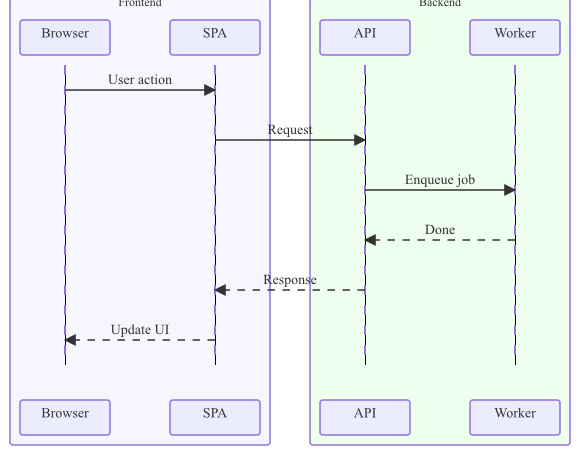
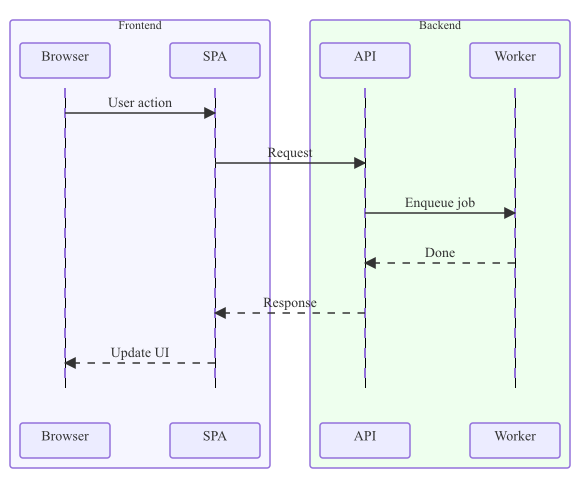
sequence: reserve top room for box-group title (#130)
* sequence: reserve top room for box-group title strip

renderBoxes drew the box rect at boxY = topY - titleStripH - boxPad/2,
which produced y < 0 and clipped the box title against the viewBox
top edge. computeLayout now adds titleStripH + boxPad/2 to topY when
the diagram has any box groups, so titles render fully.

* refactor(sequence): hoist boxGroupPad + boxTitleStripH, add regression test

Per review: the boxPad=10 constant and titleStripH formula were
duplicated three places (computeLayout title-room block, the pre-
existing computeLayout title-W rebalance loop, and renderBoxes).
Hoist to package-level boxGroupPad const and a boxTitleStripH(fontSize)
helper so a future tweak in renderBoxes can't silently re-introduce
the title-clipping bug.

Add TestRenderBoxGroupTitleNotClippedAtTop asserting the box rect
y >= 0 when a box group is present.

---------

diff --git a/pkg/renderer/sequence/renderer.go b/pkg/renderer/sequence/renderer.go
@@ -114,6 +114,13 @@ func computeLayout(d *diagram.SequenceDiagram, fontSize, pad float64) seqLayout 
 	if d.Title != "" {
 		topY += titleHeight(fontSize)
 	}
+	// Reserve room for the title strip drawn above each `box` group
+	// (renderBoxes draws at boxY = topY - titleStripH - boxPad/2).
+	// Without this, boxes start at y < 0 and their title text clips
+	// against the viewBox top edge.
+	if len(d.Boxes) > 0 {
+		topY += boxTitleStripH(fontSize) + boxGroupPad/2
+	}
 	bodyStart := topY + maxHeaderH + 10
 	rows := countRows(d)
 	bodyEnd := bodyStart + float64(rows)*defaultRowHeight
@@ -172,12 +179,11 @@ func computeLayout(d *diagram.SequenceDiagram, fontSize, pad float64) seqLayout 
 				}
 			}
 		}
-		const boxPad = 10.0
-		left := xs[firstIdx] - widths[firstIdx]/2 - boxPad
-		right := xs[lastIdx] + widths[lastIdx]/2 + boxPad
+		left := xs[firstIdx] - widths[firstIdx]/2 - boxGroupPad
+		right := xs[lastIdx] + widths[lastIdx]/2 + boxGroupPad
 		boxW := right - left
 		titleFontSize := fontSize - 2
-		titleW := textmeasure.EstimateWidth(bx.Label, titleFontSize) + 2*boxPad
+		titleW := textmeasure.EstimateWidth(bx.Label, titleFontSize) + 2*boxGroupPad
 		if titleW > boxW {
 			extra := (titleW - boxW) / 2
 			if left-extra < 0 {
@@ -213,6 +219,12 @@ func actorHeight(fontSize float64) float64 {
 
 func titleHeight(fontSize float64) float64 {
 	return fontSize + 12
+}
+
+const boxGroupPad = 10.0
+
+func boxTitleStripH(fontSize float64) float64 {
+	return (fontSize - 2) + 6.0
 }
 
 const defaultBoxFillOpacity = 0.5
@@ -477,15 +489,14 @@ func renderBoxes(d *diagram.SequenceDiagram, lay seqLayout, th Theme, fontSize f
 			}
 		}
 
-		const boxPad = 10.0
-		boxX := lay.participantX[leftIdx] - lay.participantW[leftIdx]/2 - boxPad
-		right := lay.participantX[rightIdx] + lay.participantW[rightIdx]/2 + boxPad
+		boxX := lay.participantX[leftIdx] - lay.participantW[leftIdx]/2 - boxGroupPad
+		right := lay.participantX[rightIdx] + lay.participantW[rightIdx]/2 + boxGroupPad
 		boxW := right - boxX
 
 		titleFontSize := fontSize - 2
 		titleW := 0.0
 		if bx.Label != "" {
-			titleW = textmeasure.EstimateWidth(bx.Label, titleFontSize) + 2*boxPad
+			titleW = textmeasure.EstimateWidth(bx.Label, titleFontSize) + 2*boxGroupPad
 		}
 		if titleW > boxW {
 			extra := (titleW - boxW) / 2
@@ -493,9 +504,9 @@ func renderBoxes(d *diagram.SequenceDiagram, lay seqLayout, th Theme, fontSize f
 			boxW = titleW
 		}
 
-		titleStripH := titleFontSize + 6.0
-		boxY := lay.topY - titleStripH - boxPad/2
-		boxH := (lay.bottomY + lay.maxHeaderH + boxPad) - boxY
+		titleStripH := boxTitleStripH(fontSize)
+		boxY := lay.topY - titleStripH - boxGroupPad/2
+		boxH := (lay.bottomY + lay.maxHeaderH + boxGroupPad) - boxY
 
 		fill := th.ParticipantFill
 		if bx.Fill != "" {

diff --git a/pkg/renderer/sequence/renderer_test.go b/pkg/renderer/sequence/renderer_test.go
@@ -988,6 +988,37 @@ func TestRenderBlockEndsAboveBottomParticipantRow(t *testing.T) {
 	}
 }
 
+func TestRenderBoxGroupTitleNotClippedAtTop(t *testing.T) {
+	d := &diagram.SequenceDiagram{
+		Participants: []diagram.Participant{
+			{ID: "A", Kind: diagram.ParticipantKindParticipant, CreatedAtItem: -1, DestroyedAtItem: -1},
+			{ID: "B", Kind: diagram.ParticipantKindParticipant, CreatedAtItem: -1, DestroyedAtItem: -1},
+		},
+		Boxes: []diagram.Box{{Label: "Frontend", Members: []string{"A", "B"}}},
+		Items: []diagram.SequenceItem{
+			diagram.NewMessageItem(diagram.Message{From: "A", To: "B", Label: "msg", ArrowType: diagram.ArrowTypeSolid}),
+		},
+	}
+	out, err := Render(d, nil)
+	if err != nil {
+		t.Fatalf("Render: %v", err)
+	}
+	raw := string(out)
+	// The box rect is the only one with the participant fill + opacity.
+	re := regexp.MustCompile(`<rect x="[\d.]+" y="(-?[\d.]+)"[^>]*fill-opacity:0\.5`)
+	m := re.FindStringSubmatch(raw)
+	if m == nil {
+		t.Fatal("did not find box-group rect")
+	}
+	y, err := strconv.ParseFloat(m[1], 64)
+	if err != nil {
+		t.Fatalf("parse box y=%q: %v", m[1], err)
+	}
+	if y < 0 {
+		t.Errorf("box-group rect y=%.2f is above viewBox top, title would clip", y)
+	}
+}
+
 func TestRenderRectWithLabelSuppressesBadge(t *testing.T) {
 	d := &diagram.SequenceDiagram{
 		Participants: []diagram.Participant{
